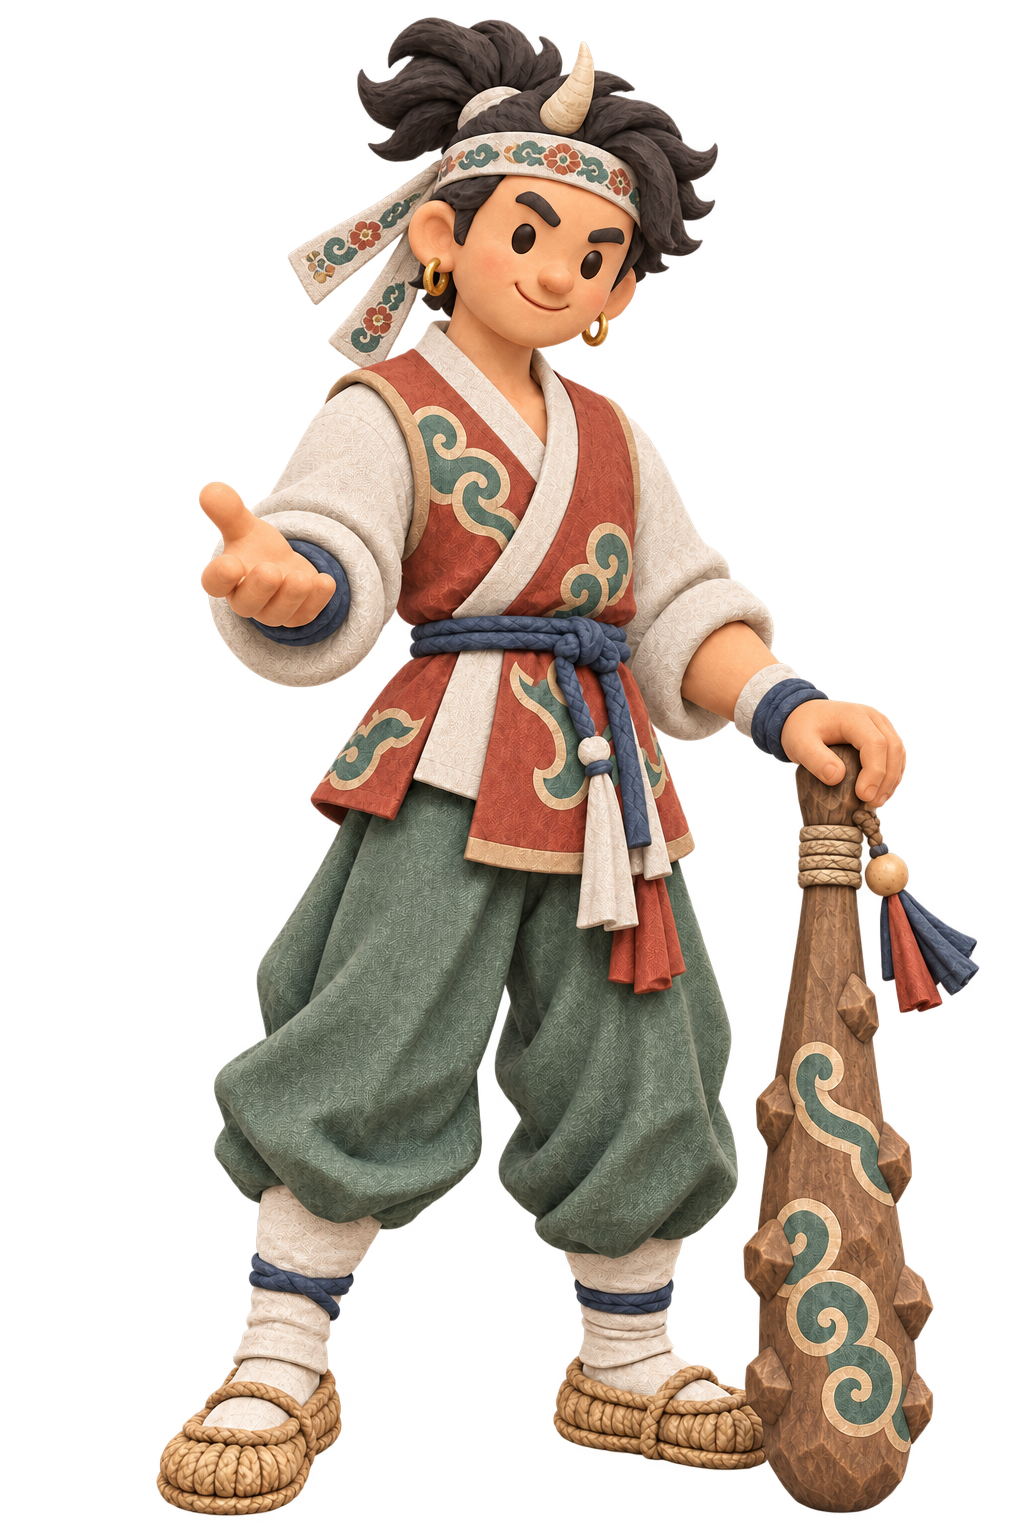
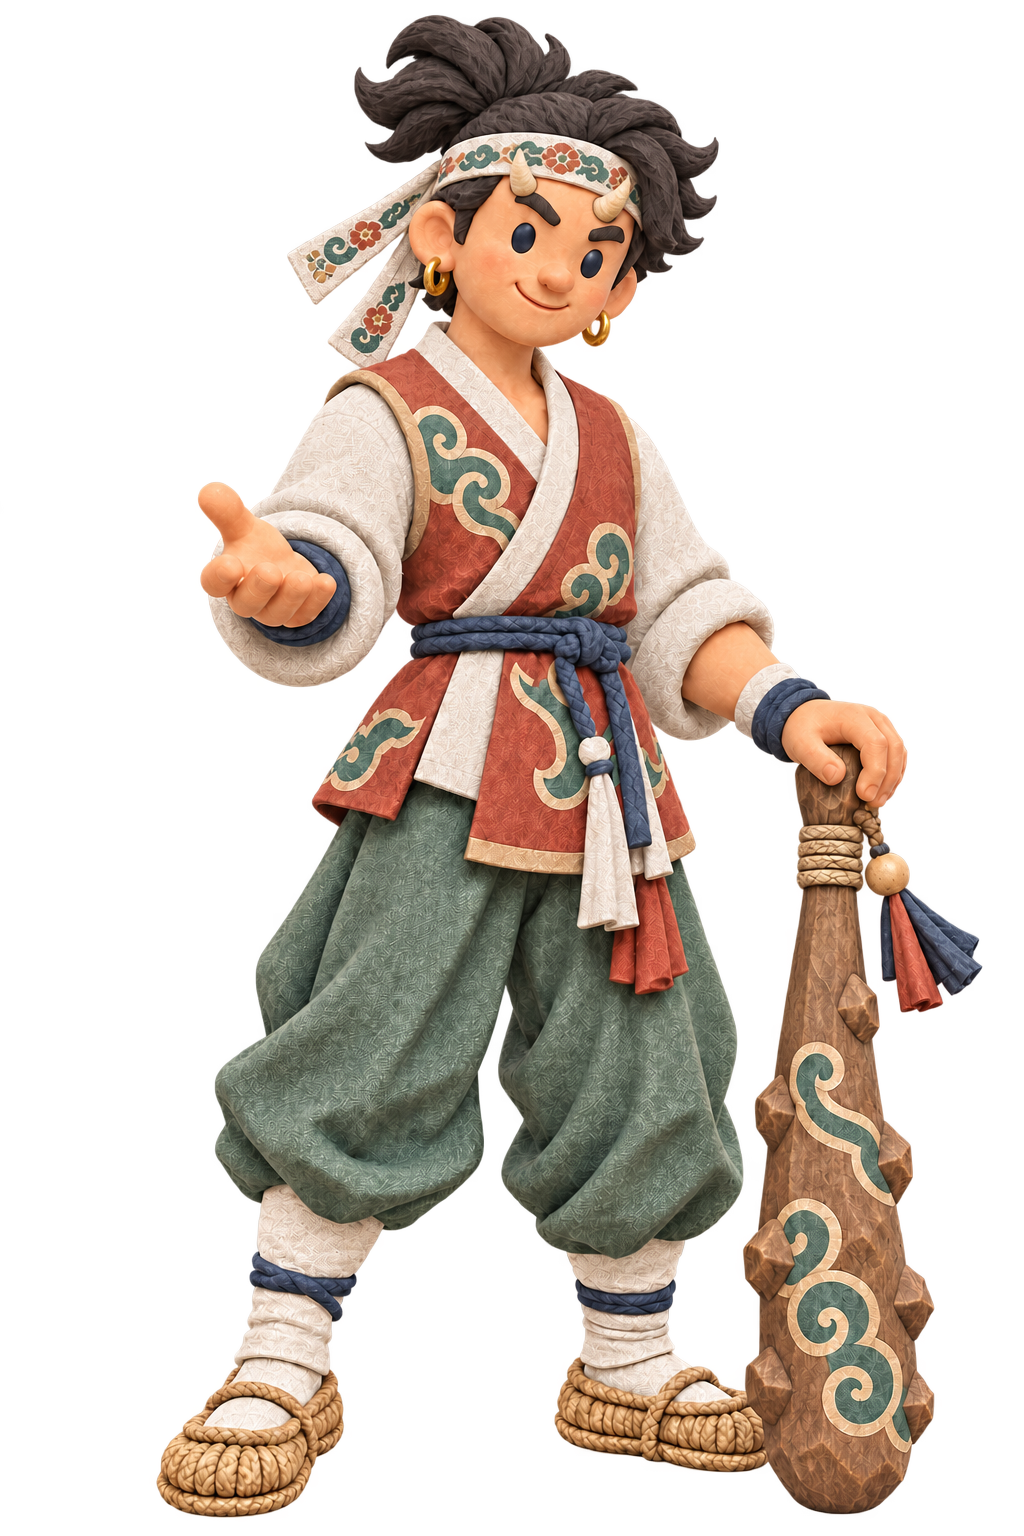
fix(art): refine dokkaebi forehead horns and blue eyes

diff --git a/docs/assets/TACTILE_DESIGN_CONTRACT.md b/docs/assets/TACTILE_DESIGN_CONTRACT.md
@@ -22,8 +22,9 @@ matte skin, textured hair, linen and a wooden bangmangi. Keep wood grain on the
 club, not the face or hands. Fine material texture and broad soft light connect
 the figure and mask without forcing every material into carved wood. This is
 an original modern folk-spirit interpretation. Its requested identity details
-are exactly one small textured horn, a Dancheong-embroidered linen headband and
-circular brushed-gold hoop earrings. Do not add paired horns, fangs, a scary
+are exactly two small textured forehead horns, subtly blue-grey small oval eyes,
+a Dancheong-embroidered linen headband and circular brushed-gold hoop earrings.
+Do not add more horns, fangs, a scary
 expression or tiger-skin costume. Reference bytes and exact prompts are preserved in
 `TACTILE_CULTURAL_PROMPTS.json`; the earlier faceted performer is archived.
 
